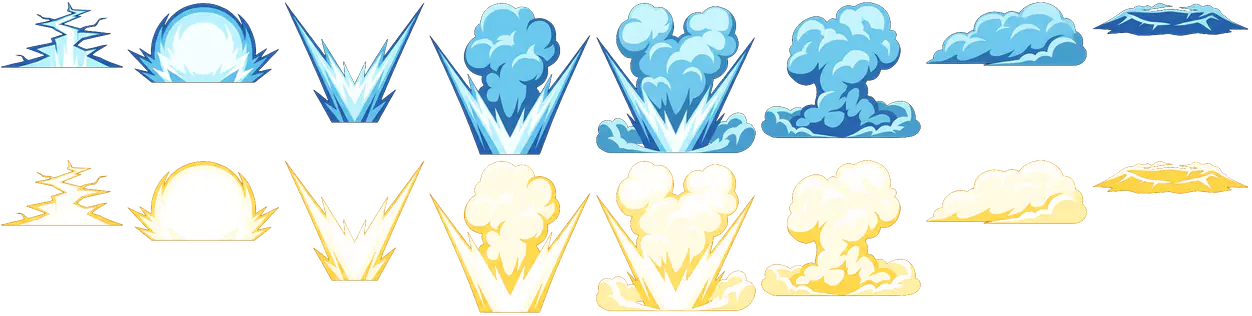
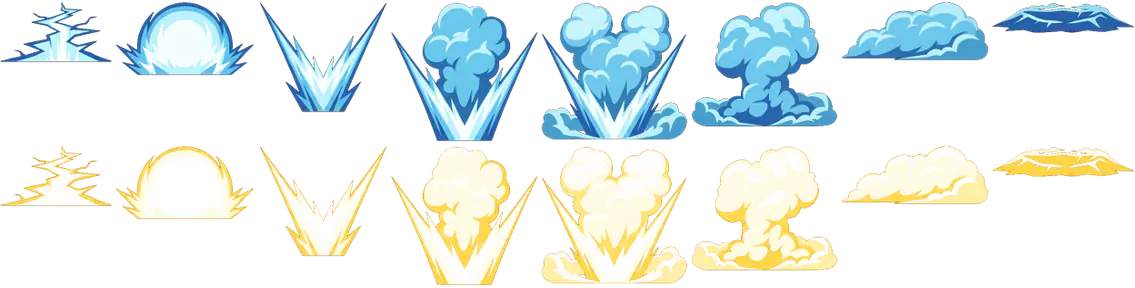
drawn: the dive's slam half its size and held 0.4 s, small-explosion's cloud held 1 s instead of 3
The slam hid the fighter it landed on and the cloud stood over the fight for 4 s
(review/visual-qa). A test holds both to it.

diff --git a/crates/arena-game/src/vfx/drawn.rs b/crates/arena-game/src/vfx/drawn.rs
@@ -606,6 +606,38 @@ mod tests {
         assert!(rounds > 2, "only {rounds} rounds");
     }
 
+    /// A blast on the ground where a blow lands never hides the fighter it lands on, nor stands over the fight
+    /// after it: the dive's slam is at most about half a fighter tall (a fighter is drawn taller than its tile) and gone in about a second and a half, the small
+    /// explosion's held cloud in under two.
+    #[test]
+    fn ground_blasts_neither_hide_the_struck_fighter_nor_linger() {
+        let fighter = Layout::world(arena_duel::data::T);
+        let tallest = |d: &Drawn| {
+            d.layout
+                .clips
+                .values()
+                .flatten()
+                .map(|c| c.h as f32 * d.px())
+                .fold(0.0, f32::max)
+        };
+        let find = |fx: &str| all().iter().find(|d| d.fx == fx);
+        let Some(dirt) = find("explosions/dirt-explosion") else {
+            unreachable!("dirt-explosion is drawn")
+        };
+        assert!(
+            tallest(dirt) <= fighter * 0.6,
+            "the dive's slam is {} world pixels tall, a fighter's tile {fighter}",
+            tallest(dirt)
+        );
+        for (d, most) in [(Some(dirt), 1.6), (find("explosions/small-explosion"), 2.0)] {
+            let Some(d) = d else { continue };
+            for school in d.layout.clips.keys() {
+                let life = d.life(school).unwrap_or(f32::INFINITY);
+                assert!(life <= most, "{} plays {life} s in {school}", d.fx);
+            }
+        }
+    }
+
     #[test]
     fn a_shape_turning_carries_its_centre_round_the_anchor() {
         let cell = arena_vfx::drawn::Cell {
